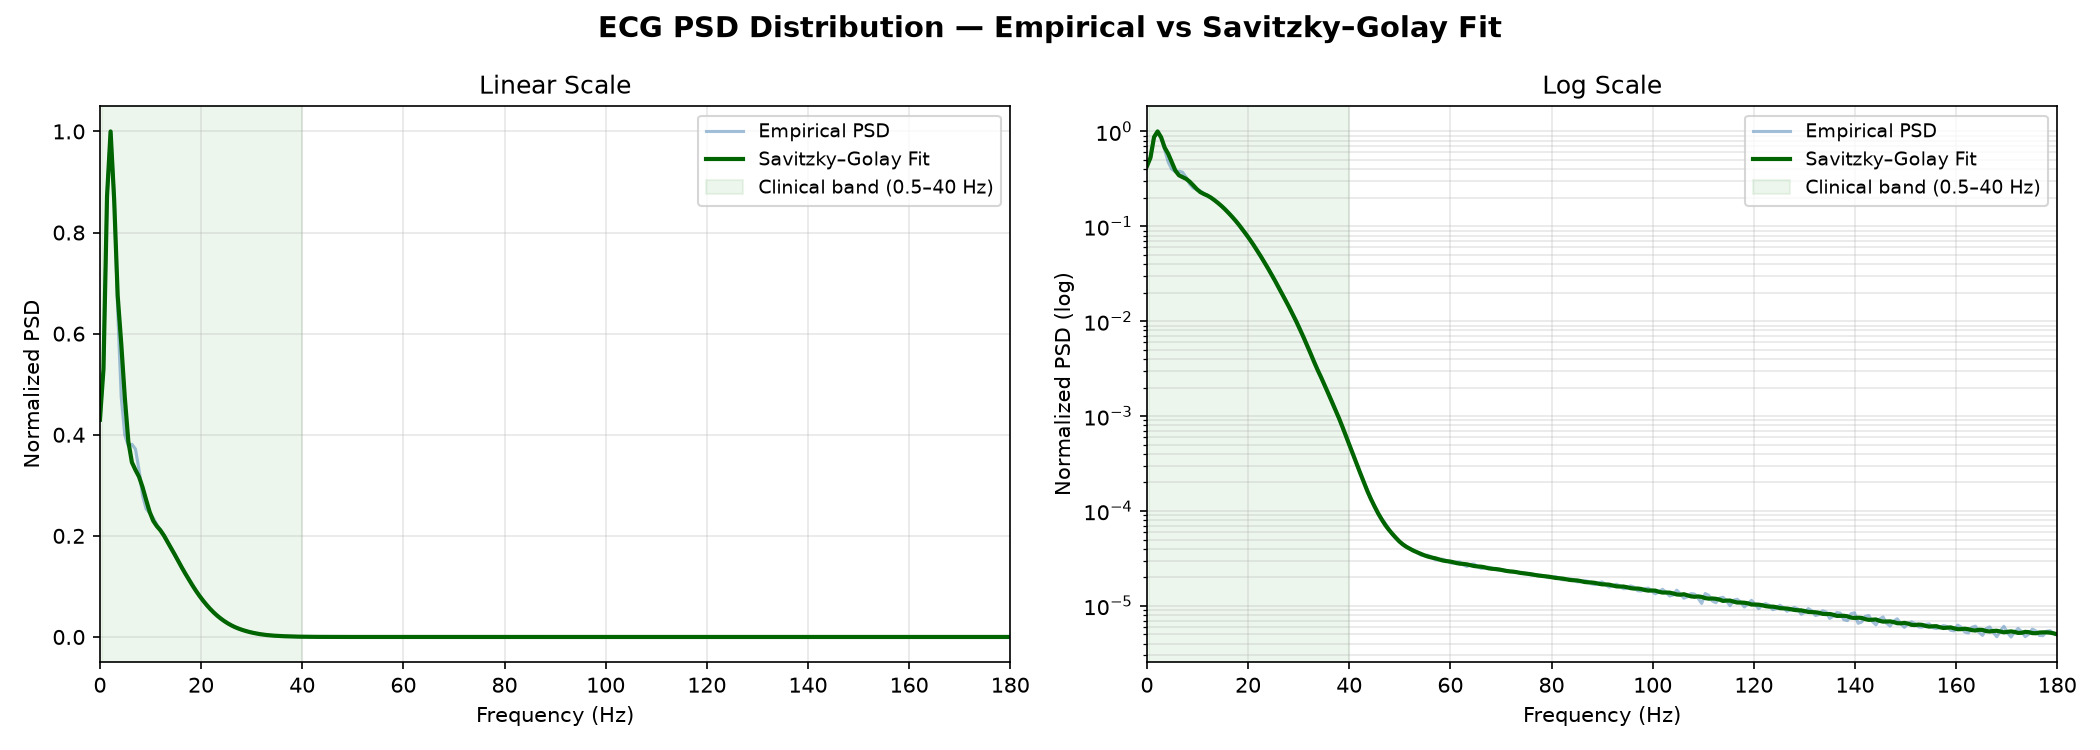
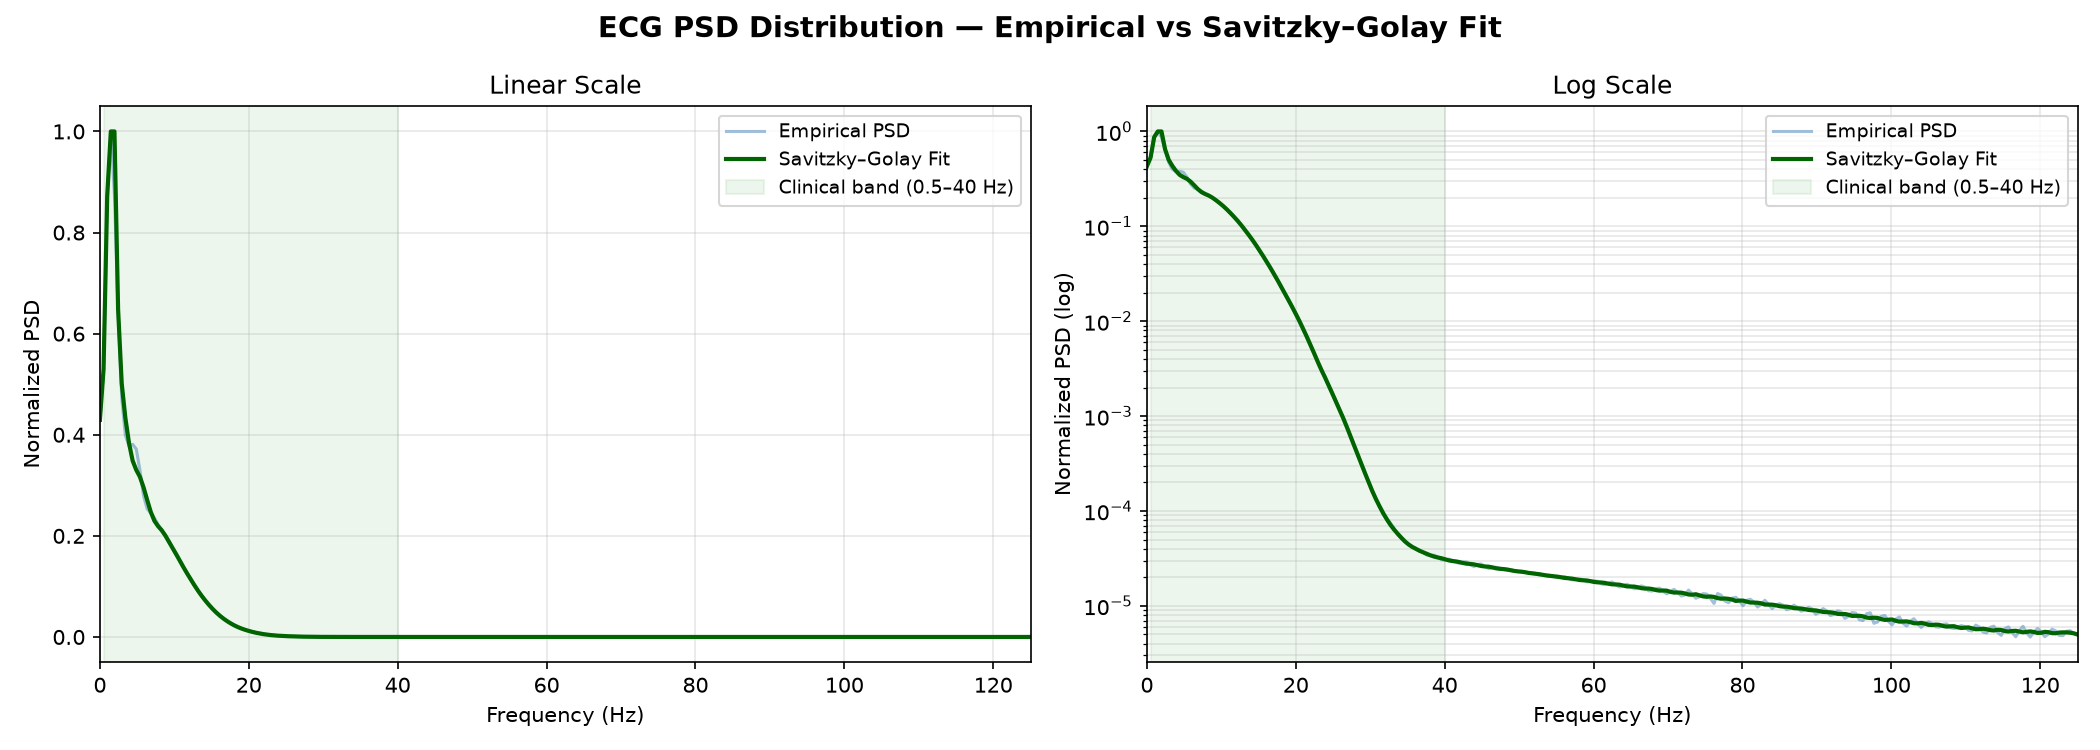
more tests

diff --git a/tests.py b/tests.py
@@ -1,0 +1,79 @@
+import torch
+import numpy as np
+from tqdm import tqdm
+from torch.utils.data import DataLoader, TensorDataset
+import os
+
+from data_prep.data_prep import prepare
+from inference import load_model_and_schedule, compute_metrics, compute_input_snr, print_metrics
+
+
+def eval_segments(ckpt_path, n_steps=1, batch_size=128, device="cuda"):
+    device = torch.device(device if torch.cuda.is_available() else "cpu")
+    model, schedule = load_model_and_schedule(ckpt_path, device)
+
+    output_dir = "data_prep"
+    _, _, x_test, y_test = prepare(output_dir=output_dir)
+
+    x_test = torch.FloatTensor(x_test).permute(0, 2, 1)
+    y_test = torch.FloatTensor(y_test).permute(0, 2, 1)
+
+    rnd_test_path = os.path.join(output_dir, "rnd_test.npy")
+    n_levels = np.load(rnd_test_path)
+
+    test_loader = DataLoader(
+        TensorDataset(torch.FloatTensor(y_test), torch.FloatTensor(x_test)),
+        batch_size=batch_size,
+        shuffle=False
+    )
+
+    all_clean, all_noisy, all_denoised = [], [], []
+
+    with torch.no_grad(), tqdm(test_loader, desc="Evaluating") as it:
+        for clean, noisy in it:
+            clean, noisy = clean.to(device), noisy.to(device)
+            output = model.sample(noisy, schedule, n_steps=n_steps)
+
+            all_clean.append(clean.cpu().numpy().reshape(clean.shape[0], -1))
+            all_noisy.append(noisy.cpu().numpy().reshape(noisy.shape[0], -1))
+            all_denoised.append(output.cpu().numpy().reshape(output.shape[0], -1))
+
+    clean_full = np.concatenate(all_clean, axis=0)
+    noisy_full = np.concatenate(all_noisy, axis=0)
+    denoised_full = np.concatenate(all_denoised, axis=0)
+
+    print("\n" + "=" * 50)
+    print(" ALL NOISE LEVELS (OVERALL)")
+    print("=" * 50)
+    overall_metrics = compute_metrics(clean_full, denoised_full)
+    overall_snr_in = compute_input_snr(clean_full, noisy_full)
+    print_metrics(overall_metrics, overall_snr_in)
+
+    segs = [0.2, 0.5, 1.0, 1.5, 2.0]
+
+    for i in range(len(segs) - 1):
+        idx = np.where((n_levels >= segs[i]) & (n_levels < segs[i + 1]))[0]
+
+        print("\n" + "=" * 50)
+        print(f" {segs[i]} <= noise <= {segs[i+1]}")
+        print("=" * 50)
+
+        if len(idx) == 0:
+            print("No samples in this segment.")
+            continue
+
+        clean_subset = clean_full[idx]
+        noisy_subset = noisy_full[idx]
+        denoised_subset = denoised_full[idx]
+
+        subset_metrics = compute_metrics(clean_subset, denoised_subset)
+        subset_snr_in = compute_input_snr(clean_subset, noisy_subset)
+        print_metrics(subset_metrics, subset_snr_in)
+
+if __name__ == "__main__":
+    eval_segments(
+        ckpt_path="checkpoints/ckpt_best.pt",
+        n_steps=1,
+        batch_size=128,
+        device="cuda"
+    )

diff --git a/train.py b/train.py
@@ -92,7 +92,7 @@ def train(
     
     x_train_full, y_train_full, x_test, y_test = prepare()
 
-    x_train, y_train, x_val, y_val = train_test_split(x_train_full, y_train_full, test_size=0.3, random_state=42)
+    x_train, x_val, y_train, y_val = train_test_split(x_train_full, y_train_full, test_size=0.3, random_state=42)
 
     train_loader = DataLoader(ECGDataset(x_train, y_train), batch_size=batch_size, shuffle=True)
     val_loader = DataLoader(ECGDataset(x_val, y_val), batch_size=batch_size, shuffle=False)

diff --git a/model.py b/model.py
@@ -223,7 +223,7 @@ class SpectralSBUNet(nn.Module):
             sigma_t, _ = schedule.get_sigma(t_batch)
             x0_pred = xn - sigma_t * score
             '''
-            x0_pred = self.forward(xn, t_batch)
+            x0_pred = self.forward(xn, x1, t_batch)
             
             '''
             if i < n_steps - 1:
